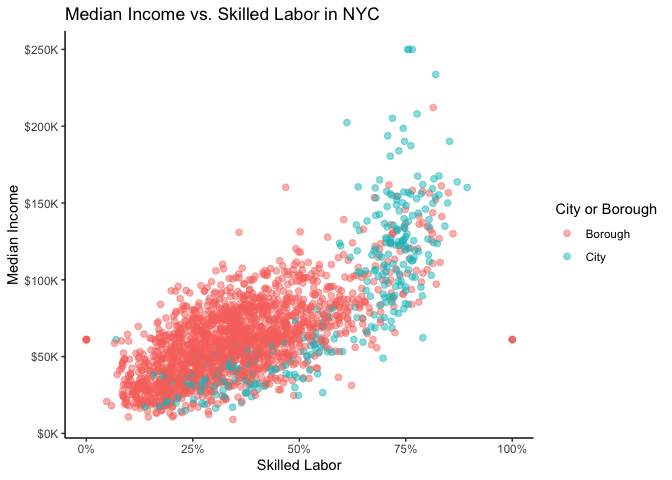
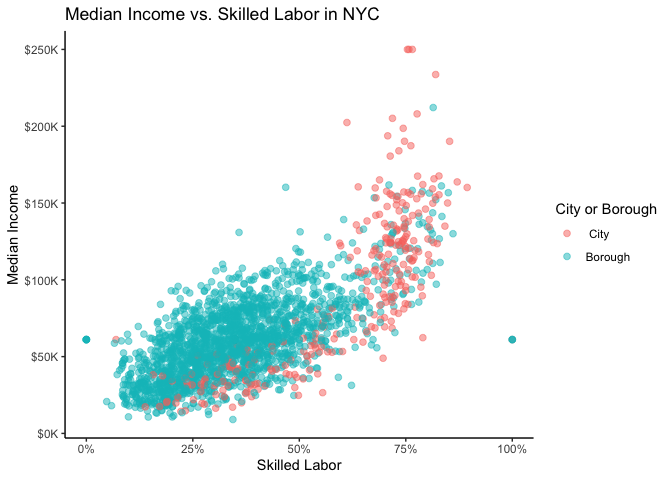
NYC updated income axis and scatterplots

diff --git a/2. Graph Creation/New York City/NYC-Final-Graphics.md b/2. Graph Creation/New York City/NYC-Final-Graphics.md
@@ -245,7 +245,7 @@ options(scipen = 999)
 ```
 
 ``` r
-df_nyc_2015 %>% mutate(City_Borough = ifelse(county_code == 'Manhattan','City','Borough')) %>% 
+df_nyc_2015 %>% mutate(City_Borough = ifelse(county_code == 'Manhattan',' City','Borough')) %>% 
   ggplot( aes(x = college_deg, y = median_income))+
   geom_point(aes(color = City_Borough), alpha = .5, size = 2)+
   scale_y_continuous(labels = function(x){paste0("$", x/1000, "K")})+
@@ -264,7 +264,7 @@ df_nyc_2015 %>% mutate(City_Borough = ifelse(county_code == 'Manhattan','City','
 ## High Skill vs Income
 
 ``` r
-df_nyc_2015 %>% mutate(City_Borough = ifelse(county_code == 'Manhattan','City','Borough')) %>% 
+df_nyc_2015 %>% mutate(City_Borough = ifelse(county_code == 'Manhattan',' City','Borough')) %>% 
   ggplot( aes(x = perc_over15_high_skill, y = median_income))+
   geom_point(aes(color = City_Borough), alpha = .5, size = 2)+
   scale_y_continuous(labels = function(x){paste0("$", x/1000, "K")})+
@@ -330,7 +330,7 @@ ggplot(income_nyc, aes(x = reorder(county_code, deviation), y = deviation,
   labs(
     title="Household Income in Manhattan",
     subtitle="Vs. NYC Area Average Median Income, $64K",
-    x = "City",
+    x = "County",
     y = "Amount Difference"
   )+
   theme_bw()+
